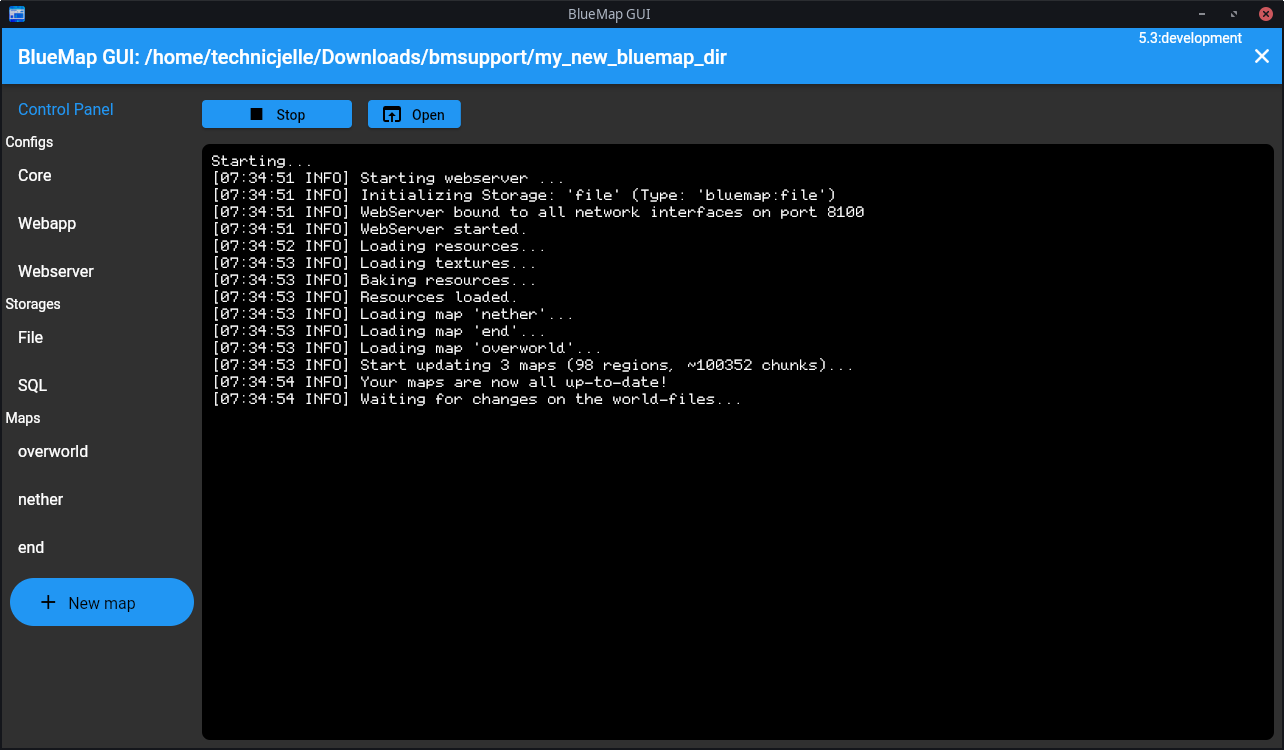
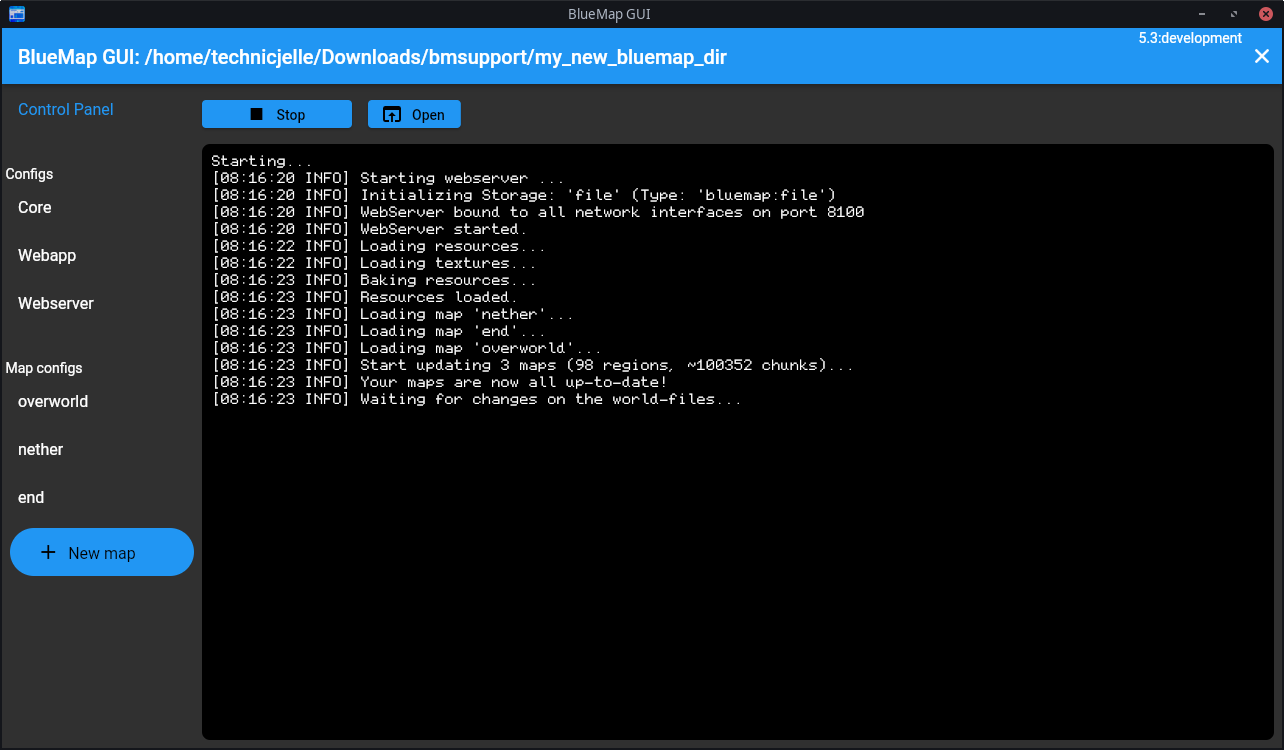
Remove "Storages" functionality completely
It is not necessary to expose this functionality for BlueMap GUI

Maybe I'll add it back in when there's an Advanced Mode toggle, or something...

diff --git a/lib/project_view/sidebar/sidebar.dart b/lib/project_view/sidebar/sidebar.dart
@@ -27,7 +27,6 @@ class Sidebar extends ConsumerStatefulWidget {
 
 class _ConfigTreeState extends ConsumerState<Sidebar> {
   final List<File> configs = [];
-  final List<File> storages = [];
   final List<File> maps = [];
 
   final List<StreamSubscription<FileSystemEvent>> subscriptions = [];
@@ -44,13 +43,6 @@ class _ConfigTreeState extends ConsumerState<Sidebar> {
       }
 
       if (entity is Directory) {
-        if (p.basename(entity.path) == "storages") {
-          for (final FileSystemEntity storage in entity.listSync()) {
-            if (storage is File) {
-              storages.add(storage);
-            }
-          }
-        }
         if (p.basename(entity.path) == "maps") {
           for (final FileSystemEntity map in entity.listSync()) {
             if (map is File) {
@@ -113,7 +105,6 @@ class _ConfigTreeState extends ConsumerState<Sidebar> {
 
     //sort all lists alphabetically
     configs.sort((a, b) => a.path.compareTo(b.path));
-    storages.sort((a, b) => a.path.compareTo(b.path));
     sortMaps();
   }
 
@@ -183,8 +174,6 @@ class _ConfigTreeState extends ConsumerState<Sidebar> {
         const _ControlPanelTile(),
         const Text(" Configs"),
         for (final File config in configs) ConfigTile(config),
-        const Text(" Storages"),
-        for (final File storage in storages) ConfigTile(storage),
         const Text(" Maps"),
         for (final File map in maps) MapTile(map),
         const NewMapButton(),
